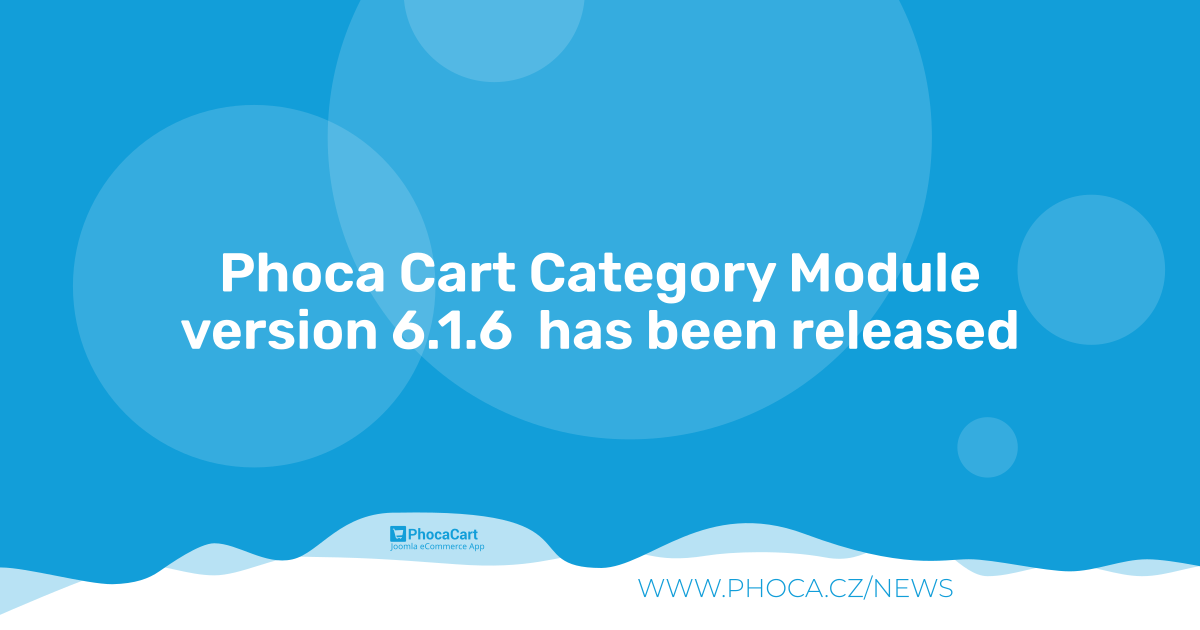
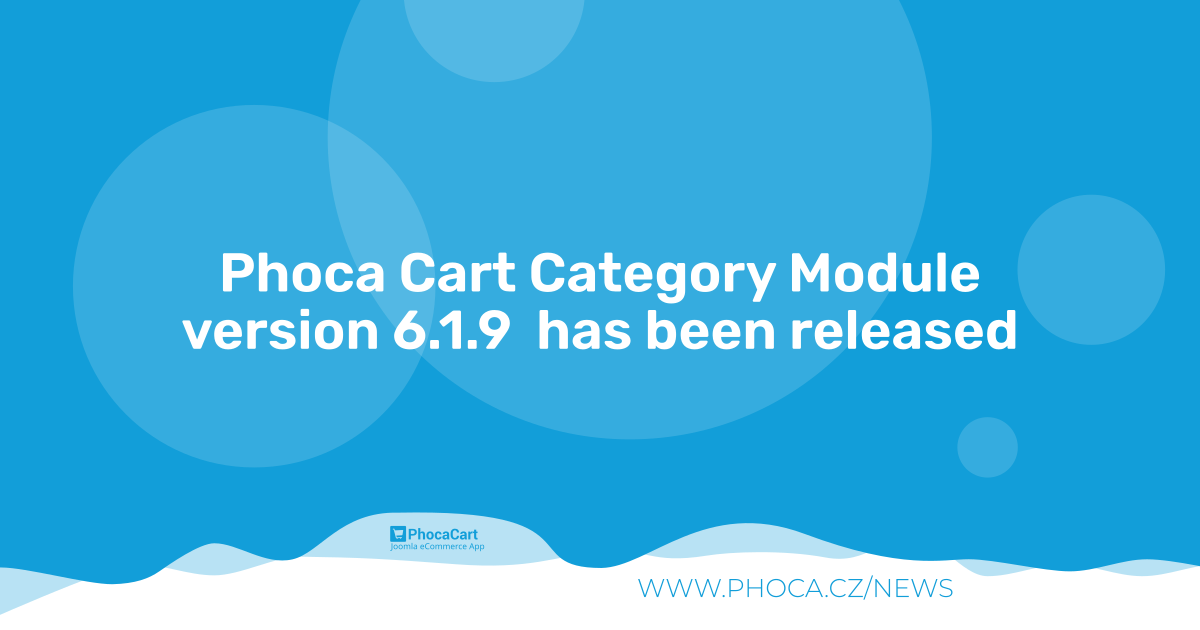
6.1.9

Changed region(s): [[0.1542, 0.4825, 0.8633, 0.573]]

diff --git a/mod_phocacart_category.php b/mod_phocacart_category.php
@@ -31,7 +31,7 @@ if (!ComponentHelper::isEnabled('com_phocacart', true)) {
 
 require_once JPATH_ADMINISTRATOR . '/components/com_phocacart/libraries/bootstrap.php';
 
-$p['category_ordering']		= $params->get( 'category_ordering', 1 );
+$p['category_ordering']		= $params->get( 'ordering', 1 );
 $p['simple_layout']			= $params->get( 'simple_layout', 0 );
 $moduleclass_sfx 			= htmlspecialchars($params->get('moduleclass_sfx', ''), ENT_COMPAT, 'UTF-8');
 $layout                     = $params->get('layout', 'default');

diff --git a/README.MD b/README.MD
@@ -71,7 +71,7 @@ If you need additional information beyond this GitHub repository, further docume
 ### Version (Joomla! 5.x - no longer supported)
 5.1.1
 ### Version (Joomla! 6.x)
-6.1.6
+6.1.9
 
 ### License
 
